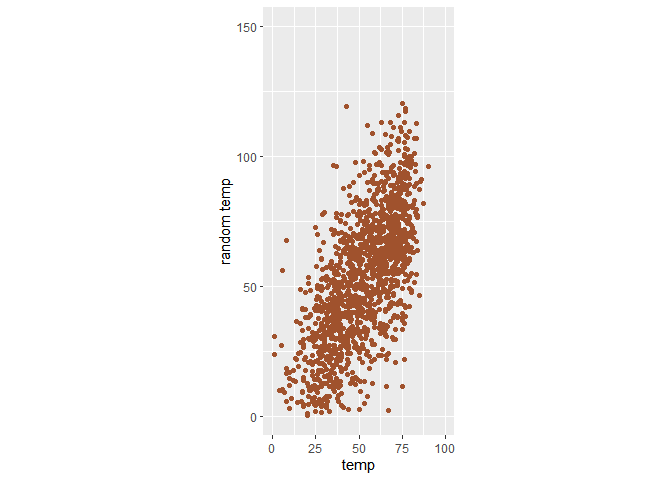
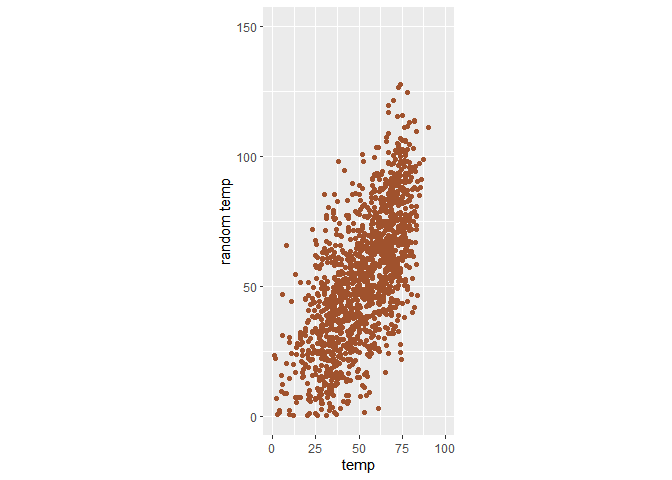
done with quantitative

Changed region(s): [[0.4062, 0.1875, 0.625, 0.875], [0.4062, 0.5, 0.4375, 0.5312]]

diff --git a/R/ggplot2_from_Ced.md b/R/ggplot2_from_Ced.md
@@ -114,6 +114,8 @@ ggplot2 Notes
     -   <a href="#manually-setting-colors-for-diverging-color-schemes"
         id="toc-manually-setting-colors-for-diverging-color-schemes">Manually
         setting colors for diverging color schemes</a>
+    -   <a href="#extension-package" id="toc-extension-package">Extension
+        package</a>
 
 > **DISCLAIMER**: This note is fundamentally a copied version of [this
 > amazing tutorial by CÉDRIC
@@ -377,7 +379,7 @@ p <- ggplot(chic, aes(x = temp, y = temp + rnorm(nrow(chic), sd = 20))) +
 p
 ```
 
-    ## Warning: Removed 47 rows containing missing values (geom_point).
+    ## Warning: Removed 44 rows containing missing values (geom_point).
 
 ![](ggplot2_from_Ced_files/figure-gfm/unnamed-chunk-16-1.png)<!-- -->
 
@@ -397,7 +399,7 @@ axis. NBut we can make it same by using `coord_fixed()` which is uses
 p + coord_fixed()
 ```
 
-    ## Warning: Removed 66 rows containing missing values (geom_point).
+    ## Warning: Removed 46 rows containing missing values (geom_point).
 
 ![](ggplot2_from_Ced_files/figure-gfm/unnamed-chunk-17-1.png)<!-- -->
 
@@ -405,7 +407,7 @@ p + coord_fixed()
 p + coord_fixed(ratio = 1.5)
 ```
 
-    ## Warning: Removed 63 rows containing missing values (geom_point).
+    ## Warning: Removed 54 rows containing missing values (geom_point).
 
 ![](ggplot2_from_Ced_files/figure-gfm/unnamed-chunk-18-1.png)<!-- -->
 
@@ -413,7 +415,7 @@ p + coord_fixed(ratio = 1.5)
 p + coord_fixed(ratio = 1/4)
 ```
 
-    ## Warning: Removed 43 rows containing missing values (geom_point).
+    ## Warning: Removed 57 rows containing missing values (geom_point).
 
 ![](ggplot2_from_Ced_files/figure-gfm/unnamed-chunk-19-1.png)<!-- -->
 
@@ -1547,3 +1549,37 @@ gb + scale_color_gradient2(
 ```
 
 ![](ggplot2_from_Ced_files/figure-gfm/unnamed-chunk-75-1.png)<!-- -->
+
+### Extension package
+
+#### `{rcartocolor}`
+
+``` r
+library(rcartocolor)
+library(patchwork)
+
+g1 <- gb + scale_color_carto_c(palette = "BurgY1")
+```
+
+    ## Warning in carto_pal_name(palette, type): Unknown palette BurgY1
+
+``` r
+g2 <- gb + scale_color_carto_c(palette = "Earth")
+
+(g1 + g2) * theme(legend.position = "bottom")
+```
+
+![](ggplot2_from_Ced_files/figure-gfm/unnamed-chunk-76-1.png)<!-- -->
+
+#### `{scico}`
+
+``` r
+library(scico)
+
+g1 <- gb + scale_color_scico(palette = "berlin")
+g2 <- gb + scale_color_scico(palette = "hawaii", direction = -1)
+
+(g1 + g2) * theme(legend.position = "bottom")
+```
+
+![](ggplot2_from_Ced_files/figure-gfm/unnamed-chunk-77-1.png)<!-- -->
